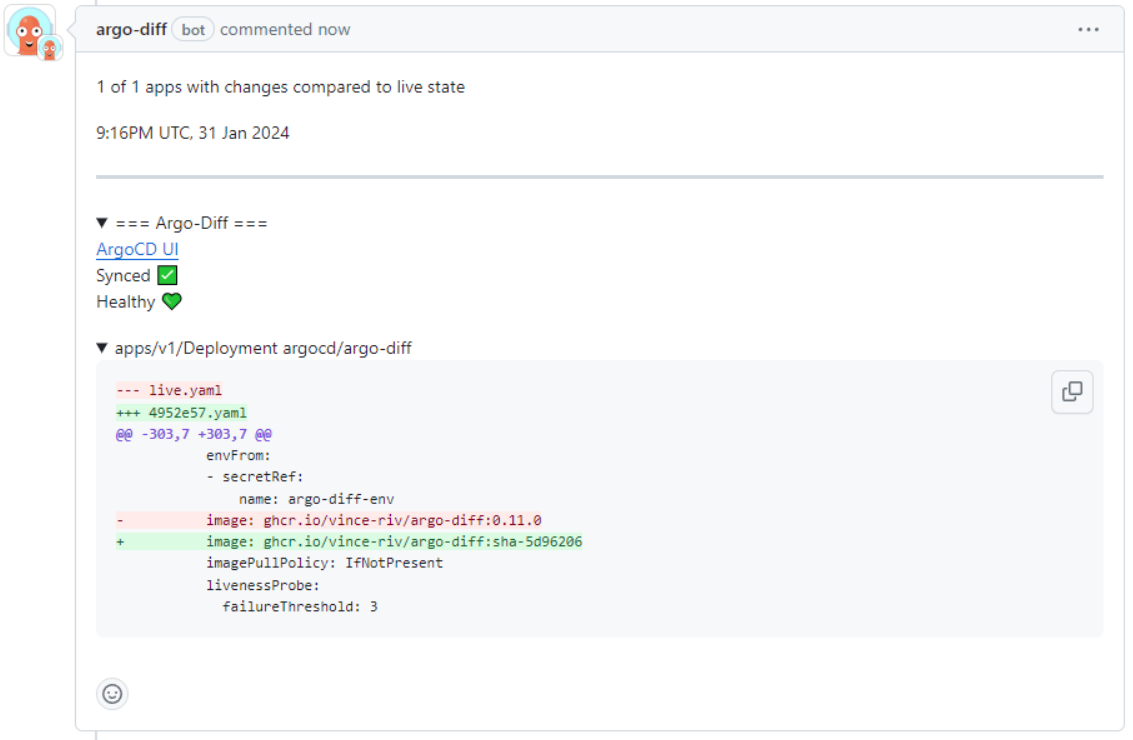
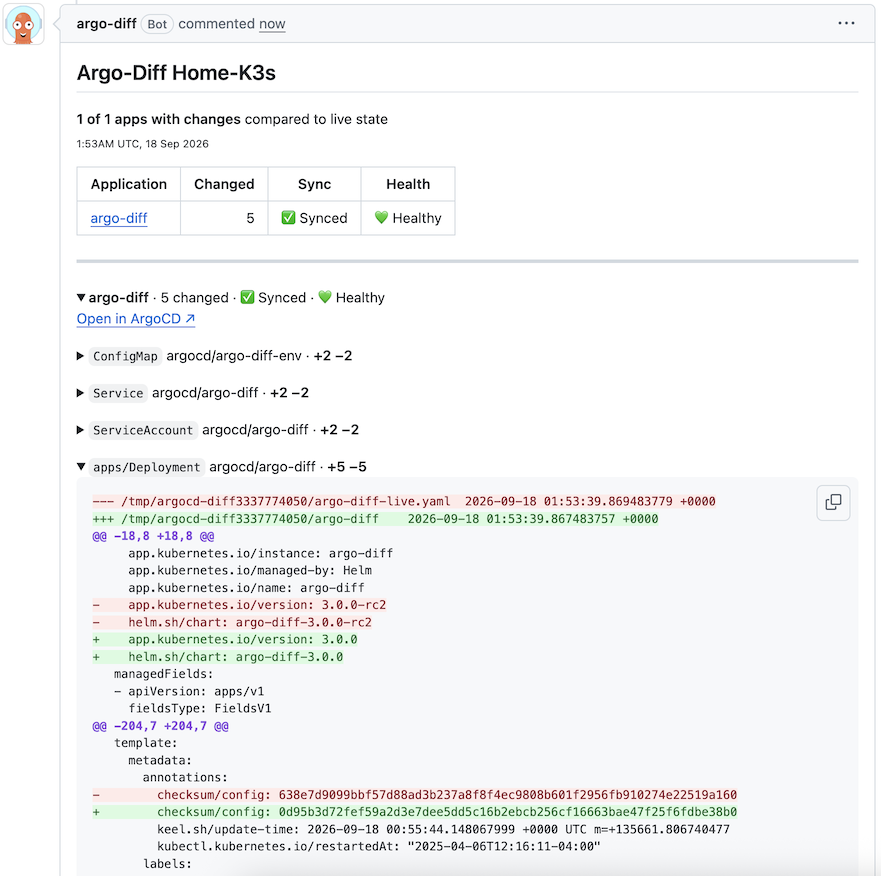
docs: updated screenshot, remove old examples (#336)
Removes old screenshots from the README. Instead links to end-to-end
tests in PRs.

diff --git a/README.md b/README.md
@@ -50,21 +50,18 @@ application.
 
 Argo-diff can also be quickly deployed via GitHub Actions.
 
-### Screenshots
+### Example argo-diff Comments
 
-Below are screenshots of GitHub Pull Request comments generated by argo-diff.
+You can view example comments generated by argo-diff in PRs opened in this repo:
+- https://github.com/vince-riv/argo-diff/pull/333#issuecomment-5723228791
+- https://github.com/vince-riv/argo-diff/pull/333#issuecomment-5723229593
 
-#### Simple comment of healthy application
-<img src="./docs/img/diff-comment-00.png?raw=true" width="456" />
+Those comments are generated by a Github actions workflow that performs an end-to-end test of new builds.
 
-#### Long line in diff truncated
-<img src="./docs/img/diff-comment-01-long-line.png?raw=true" width="449" />
+The first comment demonstrates generic manifest changes, including a cascading app-of-apps change (`meta`)
+that triggers downstream changes to a child application (`helm-deployment`).
 
-#### Application out of sync
-<img src="./docs/img/diff-comment-02-app-out-of-sync.png?raw=true" width="462" />
-
-#### Helm application (argo-diff via GitHub Actions)
-<img src="./docs/img/diff-comment-03-helm-application.png?raw=true" width="464" />
+The second comment shows the UX when the proposed manifests generate an error (`broken-deployment`).
 
 ## Deploying as a Webhook receiver
 
